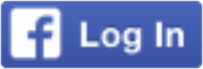
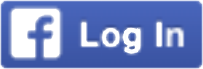
Code style edits

diff --git a/public/stylesheets/application.css b/public/stylesheets/application.css
@@ -34,4 +34,4 @@ fieldset{padding:0;margin:0;border:0;min-width:0}legend{display:block;width:100%
 @media (max-width: 767px){.hidden-xs{display:none !important}}@media (min-width: 768px) and (max-width: 991px){.hidden-sm{display:none !important}}@media (min-width: 992px) and (max-width: 1199px){.hidden-md{display:none !important}}@media (min-width: 1200px){.hidden-lg{display:none !important}}.visible-print{display:none !important}@media print{.visible-print{display:block !important}table.visible-print{display:table}tr.visible-print{display:table-row !important}th.visible-print,td.visible-print{display:table-cell !important}}.visible-print-block{display:none !important}@media print{.visible-print-block{display:block !important}}
 .visible-print-inline{display:none !important}@media print{.visible-print-inline{display:inline !important}}
 .visible-print-inline-block{display:none !important}@media print{.visible-print-inline-block{display:inline-block !important}}
-@media print{.hidden-print{display:none !important}}.view-animate.ng-enter,.view-animate.ng-leave{-webkit-transition-delay:0.8s;-moz-transition-delay:0.8s;transition-delay:0.8s;-webkit-transition:all ease-in-out 0.6s;-moz-transition:all ease-in-out 0.6s;transition:all ease-in-out 0.6s;width:100%;position:absolute}.view-animate.ng-enter{opacity:0}.view-animate.ng-enter.ng-enter-active{opacity:1}.view-animate.ng-leave.ng-leave-active{opacity:0}.view-animate.ng-enter-stagger,.view-animate.ng-leave-starger{-webkit-transition-delay:0.8s;-moz-transition-delay:0.8s;transition-delay:0.8s}.animate-if.ng-enter,.animate-if.ng-leave{-webkit-animation-delay:0.8s;-moz-animation-delay:0.8s;animation-delay:0.8s;-webkit-transition:all ease-in-out 0.6s;-moz-transition:all ease-in-out 0.6s;transition:all ease-in-out 0.6s}.animate-if.ng-enter,.animate-if.ng-leave.ng-leave-active{opacity:0}.animate-if.ng-leave,.animate-if.ng-enter.ng-enter-active{opacity:1}html{font-size:16px}body{background:#023b3f url("/images/blue-wood.png") repeat;background-size:100%, 100%;background-position:bottom center;color:white}.wrapper{background:url("/images/beach.jpg") no-repeat;background-size:100%, 100%;font:normal 100% Anton,sans-serif;color:#fff;text-shadow:2px 1px 3px rgba(0,0,0,0.5)}img,input{max-width:100%}h1{text-transform:uppercase;font-size:2em;font-weight:bold;text-align:center;margin-bottom:2%}h2{font-size:1.333333333em;margin-bottom:2%}p{font-size:1em;text-align:center;margin-bottom:2%}label{font-size:1.2em;font-weight:bold}label a{color:#FFF;text-decoration:underline}input[type='checkbox']{cursor:pointer;width:1em}button{width:90%;color:#000;vertical-align:middle}.DU-logo{width:35%;max-width:300px;margin:0% auto;padding:4%}.bottle-container{position:fixed;width:35%;bottom:0%;left:0%}.legal{margin-top:15px}.legal p{text-align:left;font-size:6pt}.wood-container{background:url("/images/wood.png") no-repeat;background-size:100% 100%;width:90%;background-position:center center;max-width:1000px;margin:0 auto;padding:60px 10%}.date-container{margin-bottom:3%}.form-group{margin:0%}.wood-btn{background:url("/images/btn-background.png") no-repeat;background-size:100% 100%;background-position:center center;width:100%;padding:3% 5%;text-align:center;font-size:2em;font-weight:bold;font-style:italic;color:rgba(0,0,0,0.8);border:none;text-shadow:none}.fb-btn{padding:0;width:5em;background:transparent;border:none}.submit-btn{margin-top:3%;padding:2% 18%}.submit-text{color:#FFF;vertical-align:middle;padding:0;display:block}.scroll-box{background-color:rgba(0,0,0,0.3);color:#FFF;padding:0.5em;width:100%;height:20em;margin:5% 0% 4%;overflow-y:scroll}.scroll-box #terms-btn{right:0px}.alert{width:100%;text-shadow:none}.form-control.ng-invalid.ng-dirty{border-color:#fa787e;border-width:2px}.form-control.ng-valid.ng-dirty{border-color:#78fa89;border-width:2px}.view-animate.ng-enter,.view-animate.ng-leave{-webkit-transition-delay:0.8s;-moz-transition-delay:0.8s;transition-delay:0.8s;-webkit-transition:all ease-in-out 0.6s;-moz-transition:all ease-in-out 0.6s;transition:all ease-in-out 0.6s;width:100%;position:absolute}.view-animate.ng-enter{opacity:0}.view-animate.ng-enter.ng-enter-active{opacity:1}.view-animate.ng-leave.ng-leave-active{opacity:0}.view-animate.ng-enter-stagger,.view-animate.ng-leave-starger{-webkit-transition-delay:0.8s;-moz-transition-delay:0.8s;transition-delay:0.8s}.animate-if.ng-enter,.animate-if.ng-leave{-webkit-animation-delay:0.8s;-moz-animation-delay:0.8s;animation-delay:0.8s;-webkit-transition:all ease-in-out 0.6s;-moz-transition:all ease-in-out 0.6s;transition:all ease-in-out 0.6s}.animate-if.ng-enter,.animate-if.ng-leave.ng-leave-active{opacity:0}.animate-if.ng-leave,.animate-if.ng-enter.ng-enter-active{opacity:1}@media screen and (min-height: 906px){.legal{position:fixed;bottom:0}}
+@media print{.hidden-print{display:none !important}}.view-animate.ng-enter,.view-animate.ng-leave{-webkit-transition-delay:0.8s;-moz-transition-delay:0.8s;transition-delay:0.8s;-webkit-transition:all ease-in-out 0.6s;-moz-transition:all ease-in-out 0.6s;transition:all ease-in-out 0.6s;width:100%;position:absolute}.view-animate.ng-enter{opacity:0}.view-animate.ng-enter.ng-enter-active{opacity:1}.view-animate.ng-leave.ng-leave-active{opacity:0}.view-animate.ng-enter-stagger,.view-animate.ng-leave-starger{-webkit-transition-delay:0.8s;-moz-transition-delay:0.8s;transition-delay:0.8s}.animate-if.ng-enter,.animate-if.ng-leave{-webkit-animation-delay:0.8s;-moz-animation-delay:0.8s;animation-delay:0.8s;-webkit-transition:all ease-in-out 0.6s;-moz-transition:all ease-in-out 0.6s;transition:all ease-in-out 0.6s}.animate-if.ng-enter,.animate-if.ng-leave.ng-leave-active{opacity:0}.animate-if.ng-leave,.animate-if.ng-enter.ng-enter-active{opacity:1}html{font-size:16px}body{background:#023b3f url("/images/blue-wood.png") repeat;background-size:100%, 100%;background-position:bottom center;color:white}.wrapper{background:url("/images/beach.jpg") no-repeat;background-size:100%, 100%;font:normal 100% Anton,sans-serif;color:#fff;text-shadow:2px 1px 3px rgba(0,0,0,0.5)}img,input{max-width:100%}h1{text-transform:uppercase;font-size:2em;font-weight:bold;text-align:center;margin-bottom:2%}h2{font-size:1.333333333em;margin-bottom:2%}p{font-size:1em;text-align:center;margin-bottom:2%}label{font-size:1.2em;font-weight:bold}label a{color:#FFF;text-decoration:underline}input[type='checkbox']{cursor:pointer;width:1em}button{width:90%;color:#000;vertical-align:middle}.DU-logo{width:35%;max-width:300px;margin:0% auto;padding:4%}.bottle-container{position:fixed;width:35%;bottom:0%;left:0%}.legal{margin-top:15px}.legal p{text-align:left;font-size:6pt}.wood-container{background:url("/images/wood.png") no-repeat;background-size:100% 100%;width:90%;background-position:center center;max-width:1000px;margin:0 auto;padding:60px 10%}.date-container{margin-bottom:3%}.form-group{margin:0%}.wood-btn{background:url("/images/btn-background.png") no-repeat;background-size:100% 100%;background-position:center center;width:100%;padding:6% 5%;text-align:center;font-size:2em;font-weight:bold;font-style:italic;color:rgba(0,0,0,0.8);border:none;text-shadow:none}.fb-btn{padding:0;width:5em;background:transparent;border:none}.submit-btn{margin-top:3%;padding:2% 18%}.submit-text{color:#FFF;vertical-align:middle;padding:0;display:block}.scroll-box{background-color:rgba(0,0,0,0.3);color:#FFF;padding:0.5em;width:100%;height:20em;margin:5% 0% 4%;overflow-y:scroll}.scroll-box #terms-btn{right:0px}.alert{width:100%;text-shadow:none}.form-control.ng-invalid.ng-dirty{border-color:#fa787e;border-width:2px}.form-control.ng-valid.ng-dirty{border-color:#78fa89;border-width:2px}.view-animate.ng-enter,.view-animate.ng-leave{-webkit-transition-delay:0.8s;-moz-transition-delay:0.8s;transition-delay:0.8s;-webkit-transition:all ease-in-out 0.6s;-moz-transition:all ease-in-out 0.6s;transition:all ease-in-out 0.6s;width:100%;position:absolute}.view-animate.ng-enter{opacity:0}.view-animate.ng-enter.ng-enter-active{opacity:1}.view-animate.ng-leave.ng-leave-active{opacity:0}.view-animate.ng-enter-stagger,.view-animate.ng-leave-starger{-webkit-transition-delay:0.8s;-moz-transition-delay:0.8s;transition-delay:0.8s}.animate-if.ng-enter,.animate-if.ng-leave{-webkit-animation-delay:0.8s;-moz-animation-delay:0.8s;animation-delay:0.8s;-webkit-transition:all ease-in-out 0.6s;-moz-transition:all ease-in-out 0.6s;transition:all ease-in-out 0.6s}.animate-if.ng-enter,.animate-if.ng-leave.ng-leave-active{opacity:0}.animate-if.ng-leave,.animate-if.ng-enter.ng-enter-active{opacity:1}@media screen and (min-height: 906px){.legal{position:fixed;bottom:0}}

diff --git a/assets/javascripts/angular/controllers/navigation-controller.js b/assets/javascripts/angular/controllers/navigation-controller.js
@@ -11,7 +11,6 @@ angular.module('unfiltered')
 
             $rootScope.location = $location;
 
-
             // After entry is saved, redirect
             $scope.$on('entrySaved', function () {
                 // redirect to the entry page
@@ -19,6 +18,11 @@ angular.module('unfiltered')
                     $location.path('/entry');
                 }, (5*1000)); // timeout delay is ms
             });
+
+            // Page navigation
+            this.goToPath = function (newPath) {
+                $location.path(newPath);
+            };
 
             $scope.imageUploads = [];
 
@@ -72,9 +76,4 @@ angular.module('unfiltered')
             $rootScope.$on('progress-updated', function (event, progress) {
                 $scope.progress = progress;
             });
-
-            // Page navigation
-            this.goToPath = function (newPath) {
-                $location.path(newPath);
-            };
         }]);

diff --git a/assets/stylesheets/application.scss b/assets/stylesheets/application.scss
@@ -15,7 +15,7 @@ body {
 .wrapper {
     background: url('/images/beach.jpg') no-repeat;
     background-size: 100%, 100%;
-    font: normal 100% $font-family;
+    font: normal 100% $FONT_FAMILY;
     color: rgba(255, 255, 255, 1);
     text-shadow: 2px 1px 3px rgba(0, 0, 0, 0.5);
 }
@@ -109,7 +109,7 @@ button {
     background-size: 100% 100%;
     background-position: center center;
     width: 100%;
-    padding: 3% 5%;
+    padding: 6% 5%;
     text-align: center;
     font-size: 2em;
     font-weight: bold;
@@ -158,11 +158,11 @@ button {
 
 /** Form validation **/
 .form-control.ng-invalid.ng-dirty {
-    border-color: $invalid-red;
+    border-color: $INVALID_RED;
     border-width: 2px;
 }
 .form-control.ng-valid.ng-dirty {
-    border-color: $valid-green;
+    border-color: $VALID_GREEN;
     border-width: 2px;
 }
 

diff --git a/assets/javascripts/angular/controllers/gate-controller.js b/assets/javascripts/angular/controllers/gate-controller.js
@@ -37,9 +37,9 @@ angular.module('unfiltered')
                     return true;
                 }
                 // create date date for desktop
-                if (typeof $scope.ageGateForm.year === 'number' &&
-                    typeof $scope.ageGateForm.month === 'number' &&
-                    typeof $scope.ageGateForm.day === 'number') {
+                if (typeof $scope.ageGateForm.year === 'number'
+                    && typeof $scope.ageGateForm.month === 'number'
+                    && typeof $scope.ageGateForm.day === 'number') {
                     this.date = moment([parseInt($scope.ageGateForm.year),
                                         parseInt($scope.ageGateForm.month)-1,
                                         parseInt($scope.ageGateForm.day)]);

diff --git a/assets/stylesheets/_typography.scss b/assets/stylesheets/_typography.scss
@@ -1,4 +1,4 @@
-$font-family: Anton, sans-serif;
+$FONT_FAMILY: Anton, sans-serif;
 
 html {
     font-size: 16px;

diff --git a/assets/stylesheets/_colors.scss b/assets/stylesheets/_colors.scss
@@ -1,2 +1,2 @@
-$invalid-red: #FA787E;
-$valid-green: #78FA89;
+$INVALID_RED: #FA787E;
+$VALID_GREEN: #78FA89;
